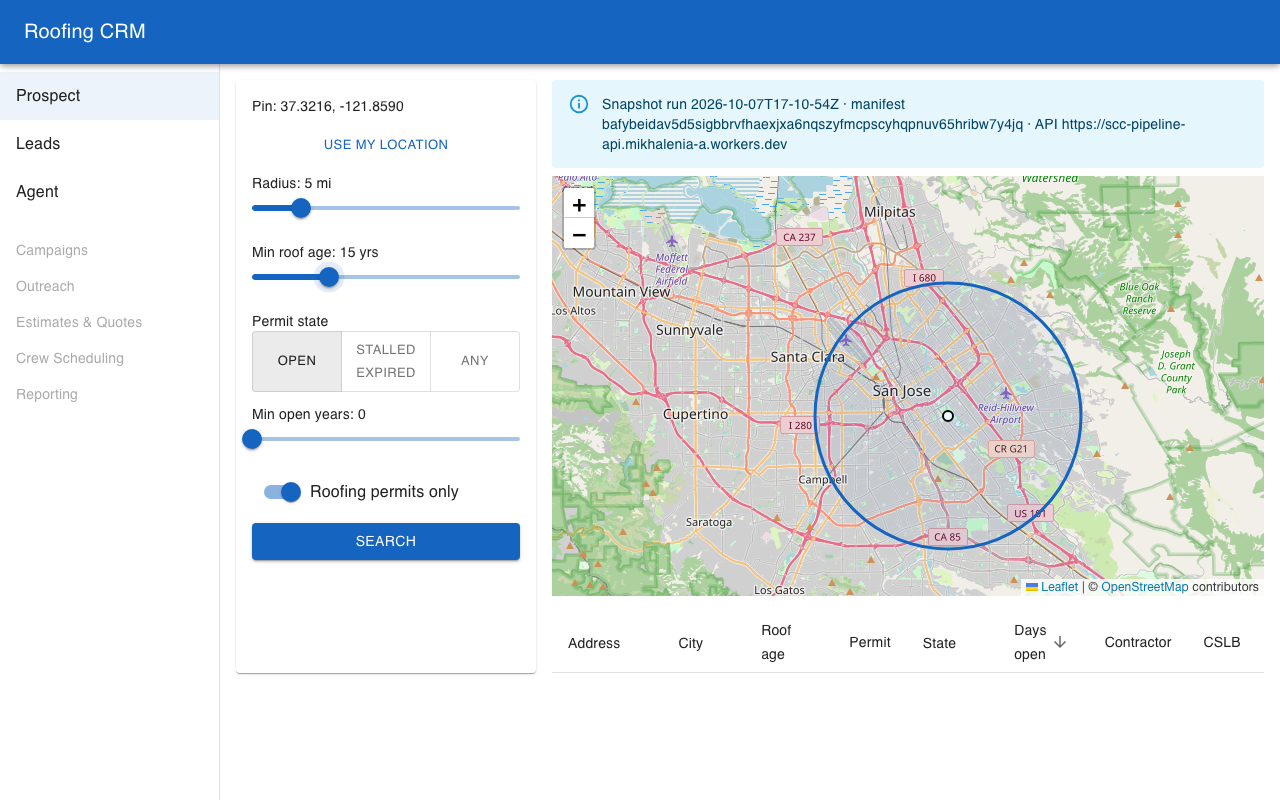
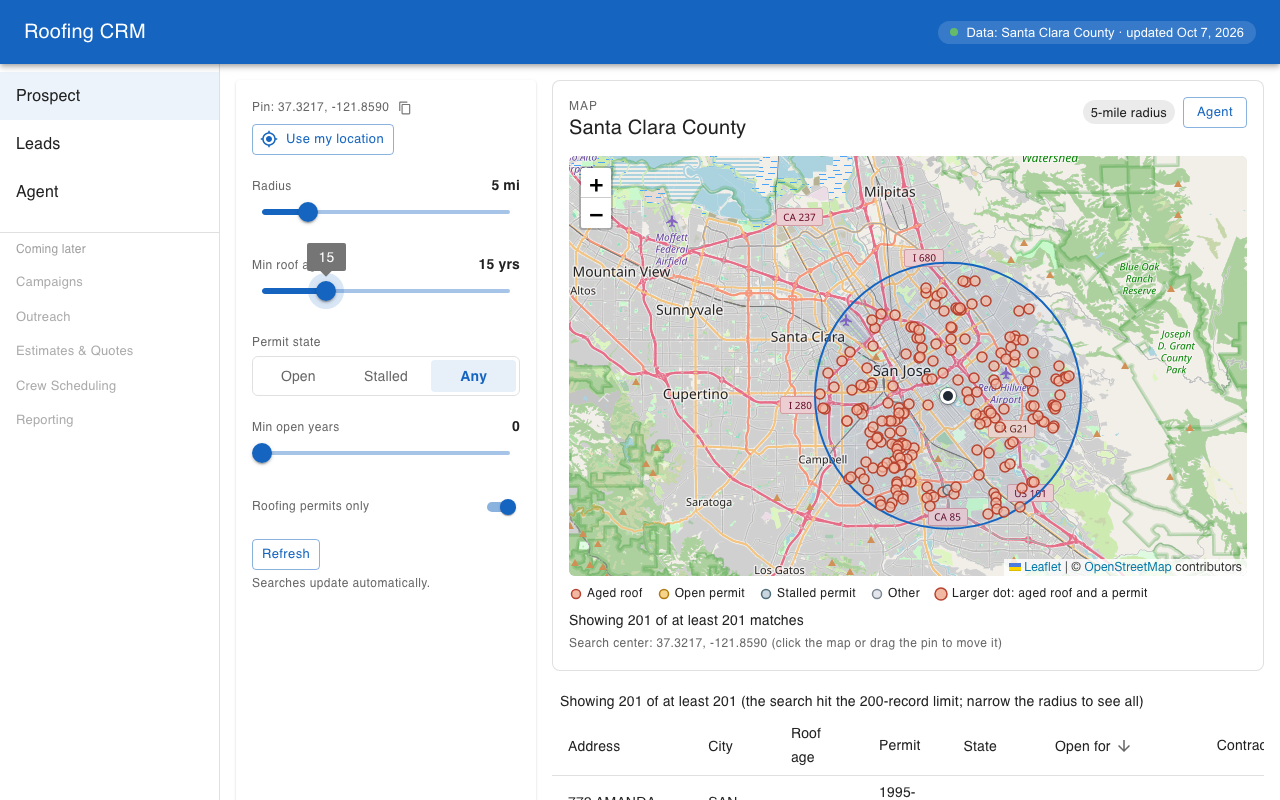
test(e2e): friendly labels, notes editor and live screenshots for the map-integrated flow

diff --git a/apps/web-e2e/src/demo-transcript.spec.ts b/apps/web-e2e/src/demo-transcript.spec.ts
@@ -97,16 +97,16 @@ test("README demo transcript", async ({ page, request }) => {
       await expect(rows.first()).toBeVisible({ timeout: 30_000 });
       expect(await rows.count()).toBeGreaterThan(0);
       await expect(page.locator("path.result-marker--aged_roof").first()).toBeAttached();
-      await expect(page.getByRole("note", { name: "Map legend" })).toBeVisible();
-      await expect(page.getByTestId("map-status")).toContainText(/Showing (at least )?\d+ propert/);
+      await expect(page.getByRole("list", { name: "Map legend" })).toBeVisible();
+      await expect(page.getByTestId("map-status")).toContainText(/matching propert|of at least [\d,]+ matches/);
       await expect(page.getByRole("button", { name: "Refresh" })).toBeVisible();
       await page.locator("path.result-marker").first().hover({ force: true });
-      await expect(page.locator(".leaflet-tooltip").first()).toContainText(/roof (\d+ yrs|age unknown)/);
+      await expect(page.locator(".leaflet-tooltip").first()).toContainText(/Roof (\d+ yrs|age unknown)/);
       await shot(page, "04-results");
     });
 
     await test.step("05 sort by days open", async () => {
-      const header = page.getByRole("columnheader", { name: "Days open" });
+      const header = page.getByRole("columnheader", { name: "Open for" });
       await header.getByRole("button").click();
       await header.getByRole("button").click();
       await expect(header).toHaveAttribute("aria-sort", "descending");
@@ -125,7 +125,7 @@ test("README demo transcript", async ({ page, request }) => {
         const cells = rows.nth(i).locator("td");
         const state = (await cells.nth(stateCol).textContent())?.trim();
         const contractor = (await cells.nth(contractorCol).textContent())?.trim();
-        if ((state === "open" || state === "expired_unfinaled") && contractor && contractor !== "-") {
+        if ((state === "Open" || state === "Stalled") && contractor && contractor !== "-") {
           row = rows.nth(i);
           break;
         }
@@ -163,7 +163,8 @@ test("README demo transcript", async ({ page, request }) => {
       const answer = panel.getByTestId("agent-answer");
       await expect(answer).toBeVisible({ timeout: 90_000 });
       expect(((await answer.textContent()) ?? "").trim().length).toBeGreaterThan(40);
-      await expect(panel.getByTestId("agent-tool-calls")).toContainText("get_property");
+      await expect(panel.getByTestId("agent-tool-calls")).toContainText("Looked up a property");
+      await page.evaluate(() => window.scrollTo(0, 0));
       await shot(page, "08-ask-agent");
     });
 
@@ -189,6 +190,7 @@ test("README demo transcript", async ({ page, request }) => {
           await expect(popup.getByRole("button", { name: "Already a lead" })).toBeVisible();
         }
       }
+      await page.evaluate(() => window.scrollTo(0, 0));
       await shot(page, "09-saved");
     });
 
@@ -198,7 +200,24 @@ test("README demo transcript", async ({ page, request }) => {
       const row = page.getByRole("row", { name: new RegExp(escapeRe(address)) });
       await expect(row).toBeVisible({ timeout: 20_000 });
       await expect(row.getByRole("button", { name: `Show ${address} on map` })).toBeVisible();
+      if (!savedThisRun) {
+        await shot(page, "10-leads");
+        return; // never edit or delete a lead this run did not create
+      }
+      // Status change goes through PATCH /leads/:apn.
+      const patched = page.waitForResponse((r) => r.url().includes("/leads/") && r.request().method() === "PATCH");
+      await row.getByRole("combobox", { name: `Status for ${address}` }).click();
+      await page.getByRole("option", { name: "Contacted" }).click();
+      expect((await patched).ok()).toBe(true);
+      await expect(row.getByRole("combobox", { name: `Status for ${address}` })).toHaveText("Contacted");
       await shot(page, "10-leads");
+      // Delete through the UI so production keeps no demo lead.
+      const deleted = page.waitForResponse((r) => r.url().includes("/leads/") && r.request().method() === "DELETE");
+      await row.getByRole("button", { name: `Delete ${address}` }).click();
+      await page.getByRole("dialog").getByRole("button", { name: "Delete" }).click();
+      expect((await deleted).ok()).toBe(true);
+      savedThisRun = false;
+      await expect(page.getByRole("row", { name: new RegExp(escapeRe(address)) })).toHaveCount(0);
     });
 
     await test.step("11 agent page", async () => {
